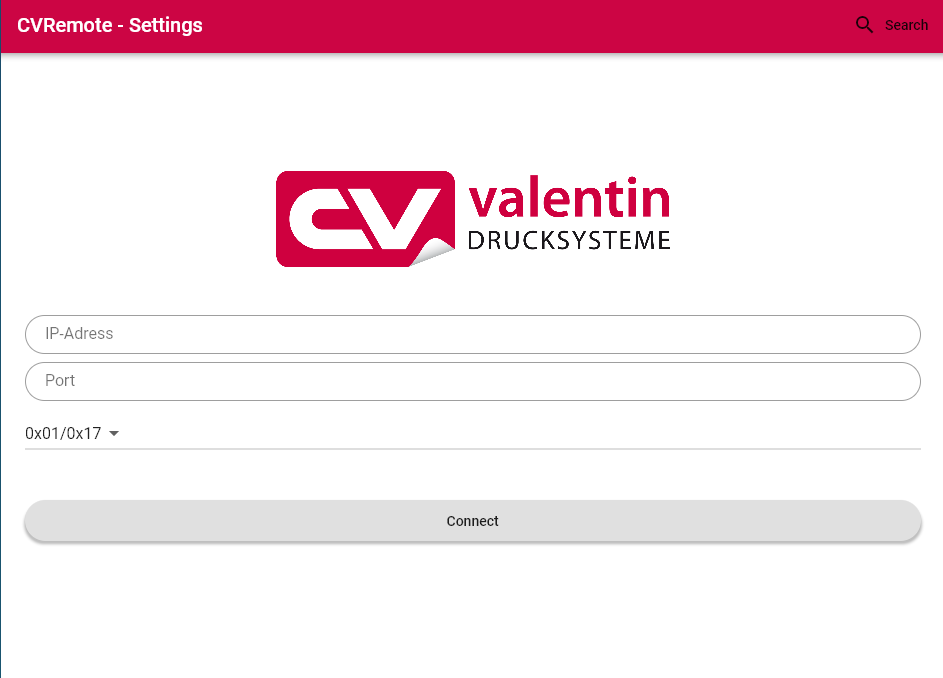
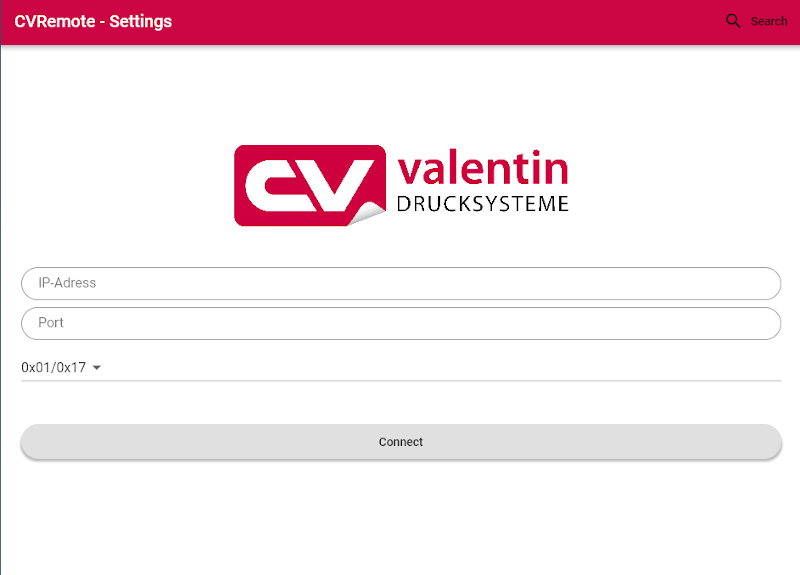
Bilder optimiert, Hintergrund eingebaut (fehler behoben)

diff --git a/P1-4/stylesheet/style.css b/P1-4/stylesheet/style.css
@@ -1,9 +1,9 @@
 body {
     font-family: sans-serif;
+    background-image: url("../assets/pictures/bg.png");
 }
 
 main {
-    background-image: url("assets/pictures/bg.png");
     margin: auto;
     margin-top: 90px;
 }
@@ -187,9 +187,10 @@ input#hamburg {
         max-height: 80px;
         background-color: #333;
     }
+
     #cvRemoteControll img {
         display: inline;
-        width: 49%;
+        max-width: 49%;
     }
     #cvAnim:after {
         content: "";

diff --git a/P1-3/stylesheet/style.css b/P1-3/stylesheet/style.css
@@ -1,11 +1,14 @@
 /* https://github.com/gabriel-rausch/EIA1-Material/blob/master/L03/task_material/Anmerkungen.pdf */
 
+body {
+    background-image: url("../assets/pictures/bg.png");
+}
+
 header {
     font-family: sans-serif;
 }
 
 main {
-    background-image: url("assets/pictures/bg.png");
     width: 800px;
     margin: auto;
     font-family: sans-serif;
